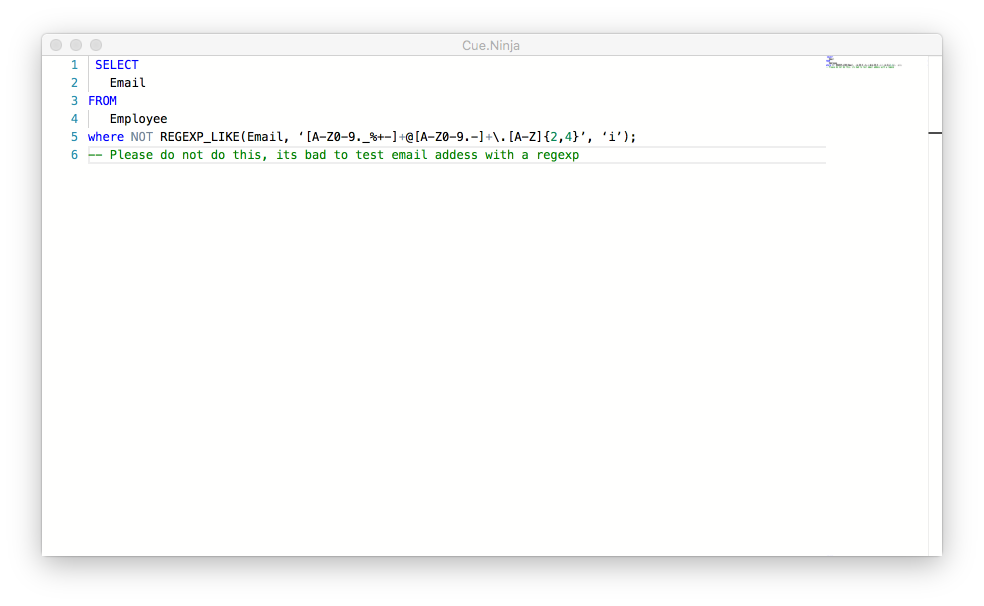
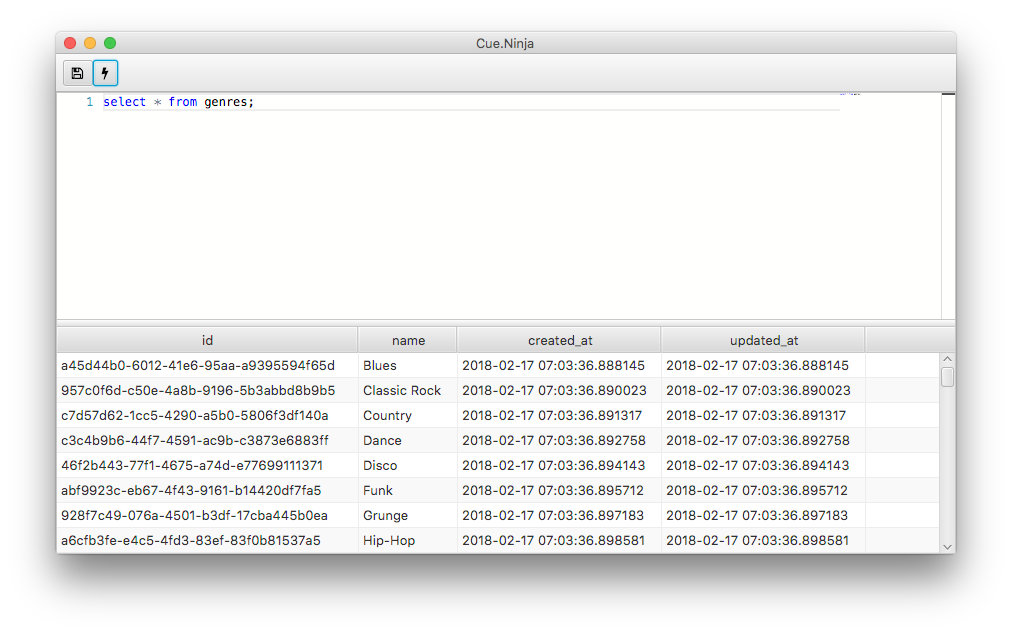
Get querying working

Changed region(s): [[0.0305, 0.0594, 0.9756, 0.9208], [0.3659, 0.6535, 0.3963, 0.7426]]

diff --git a/src/main/kotlin/ninja/cue/views/MainWindow.kt b/src/main/kotlin/ninja/cue/views/MainWindow.kt
@@ -1,13 +1,24 @@
 package ninja.cue.views
 
+import javafx.beans.property.SimpleStringProperty
 import javafx.event.ActionEvent
 import javafx.fxml.FXML
 import javafx.scene.control.MenuBar
+import javafx.scene.control.TableColumn
+import javafx.scene.control.TableView
+import javafx.util.Callback
+import java.sql.Connection
+import java.sql.DriverManager
+
 import ninja.cue.monaco.Monaco
+import java.sql.ResultSet
 
 class MainWindow {
     @FXML private var monaco = Monaco()
     @FXML private var mainMenu = MenuBar()
+    @FXML private var table = TableView<Array<String>>()
+
+    private var connection: Connection? = null
 
     fun initialize() {
         mainMenu.useSystemMenuBarProperty().set(true)
@@ -19,6 +30,40 @@ class MainWindow {
 
     @FXML fun debugger(actionEvent: ActionEvent) {
         //monaco.startDebugger()
+    }
+
+    fun makeConnection(): Connection {
+        if(connection == null) {
+            val url = "jdbc:postgresql://localhost/rock?user=usr1"
+            connection = DriverManager.getConnection(url)
+        }
+        return connection!!
+    }
+
+    fun executeQuery(event: ActionEvent) {
+        val query = monaco.getContent()
+        val stmt = makeConnection().createStatement()
+        val results: ResultSet = stmt.executeQuery(query)
+
+        val columns = Array<String>(results.metaData.columnCount) {
+            results.metaData.getColumnName(it + 1)
+        }
+
+        table.columns.setAll(columns.map {
+            val cell = TableColumn<Array<String>, String>(it)
+            val index = columns.indexOf(it)
+            cell.cellValueFactory = Callback { SimpleStringProperty(it.value[index]) }
+            cell
+        })
+
+        table.items.clear()
+
+        while(results.next()) {
+            val row = Array<String>(columns.size) {
+                results.getString(it + 1)
+            }
+            table.items.add(row)
+        }
     }
 
 }
